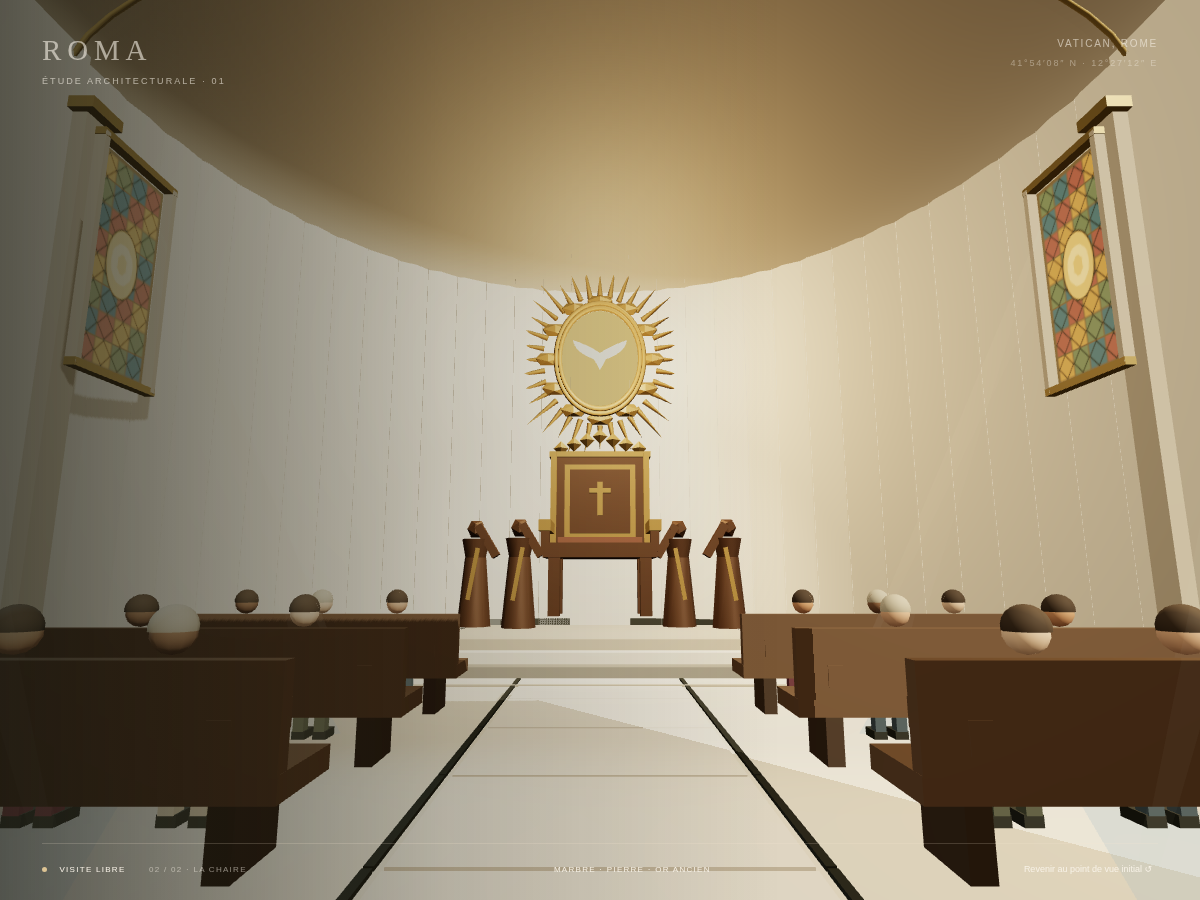
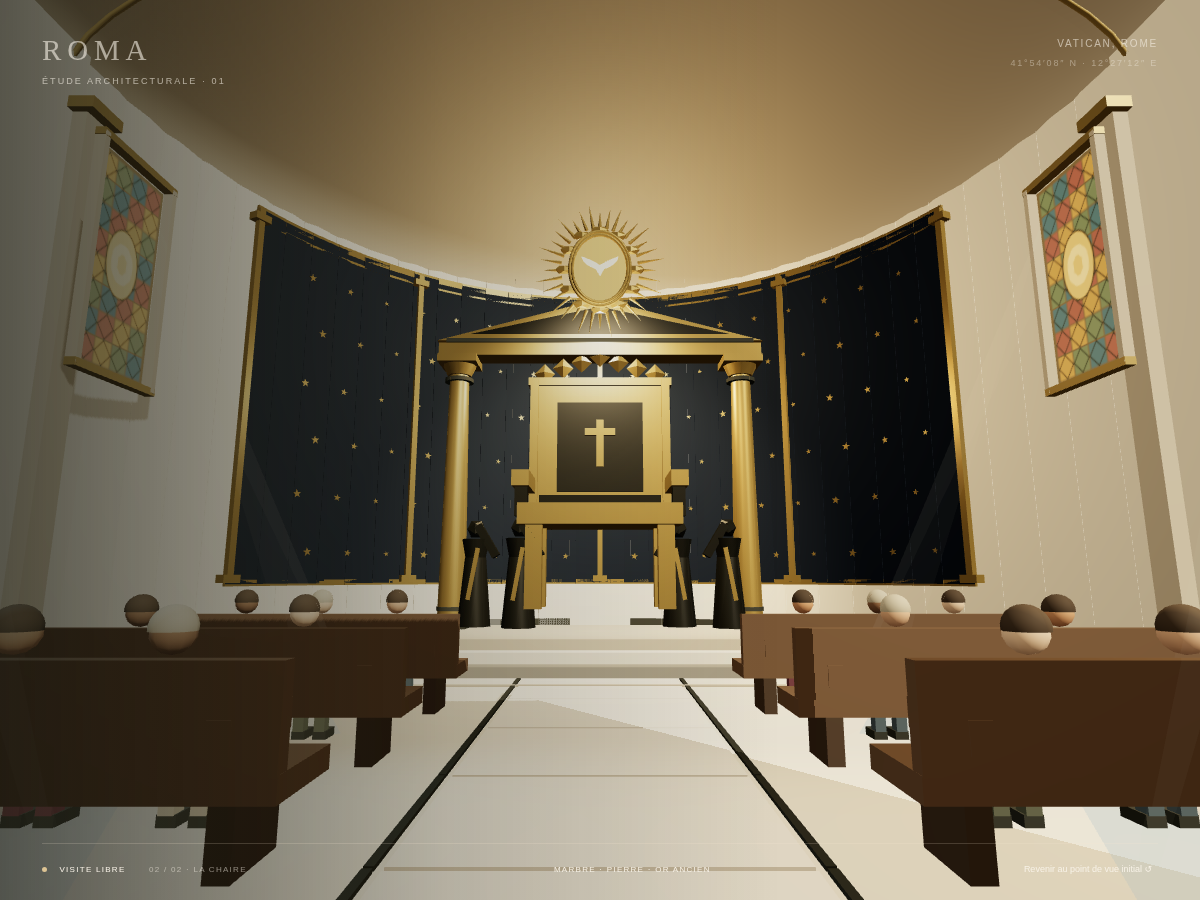
Make Cathedra sanctuary monumental with gold black and midnight stars

Changed region(s): [[0.185, 0.2178, 0.8325, 0.7156]]

diff --git a/src/chapel.js b/src/chapel.js
@@ -3,7 +3,7 @@ import * as THREE from 'three';
 // Salle II : nef avec abside elliptique, Cathedra Petri interprétée géométriquement.
 export function createChapel({scene,box,cylinder,mat,cream,stone,gray,black,gold,white}){
   const chapel=new THREE.Group();chapel.name='chapel';scene.add(chapel);
-  const wood=mat('#65503c'),darkWood=mat('#493c30'),chairBronze=mat('#5b412c',.52,.4),chairGold=mat('#ad8b4b',.42,.5);
+  const wood=mat('#65503c'),darkWood=mat('#493c30'),chairBronze=mat('#25251f',.4,.45),chairGold=mat('#b09452',.35,.65);
   const obstacles=[];
   const floorShape=new THREE.Shape();floorShape.moveTo(-8,-17);floorShape.lineTo(8,-17);floorShape.lineTo(8,-28);
   floorShape.absellipse(0,-28,8,9,0,Math.PI,true);floorShape.lineTo(-8,-17);floorShape.closePath();
@@ -80,12 +80,12 @@ export function createChapel({scene,box,cylinder,mat,cream,stone,gray,black,gold
   // Estrade de la chaire, laissant une allée devant elle.
   box(7.4,.18,4.8,0,.12,-33.4,gray);box(6.7,.22,4.3,0,.3,-33.55,cream);box(6,.2,3.8,0,.51,-33.7,stone);
   obstacles.push({x:0,z:-33.5,hx:4,hz:2.9});
-  const chair=new THREE.Group();chair.name='cathedra-petri';chair.userData.palette='bronze sombre, or ancien, ivoire et ambre';chair.position.set(0,.63,-33.8);chapel.add(chair);
+  const chair=new THREE.Group();chair.name='cathedra-petri';chair.userData.palette='or massif et noir';chair.position.set(0,.63,-33.8);chair.scale.set(1.45,1.45,1.15);chapel.add(chair);
   const cbox=(w,h,d,x,y,z,m)=>{const mesh=new THREE.Mesh(new THREE.BoxGeometry(w,h,d),m);mesh.position.set(x,y,z);mesh.castShadow=true;mesh.receiveShadow=true;chair.add(mesh);return mesh;};
   // Le trône est une interprétation du reliquaire en bronze de Bernin.
-  for(const x of [-.95,.95])for(const z of [-.5,.5])cbox(.24,1.25,.24,x,.94,z,chairBronze);
-  cbox(2.35,.3,1.65,0,1.65,0,chairBronze);cbox(1.75,.12,1.25,0,1.86,.05,mat('#704734'));
-  cbox(2.05,2.12,.28,0,2.77,-.65,chairBronze);cbox(1.6,1.67,.06,0,2.78,-.48,chairGold);cbox(1.35,1.43,.07,0,2.78,-.43,chairBronze);
+  for(const x of [-.95,.95])for(const z of [-.5,.5])cbox(.24,1.25,.24,x,.94,z,chairGold);
+  cbox(2.35,.3,1.65,0,1.65,0,chairGold);cbox(1.75,.12,1.25,0,1.86,.05,chairBronze);
+  cbox(2.05,2.12,.28,0,2.77,-.65,chairGold);cbox(1.6,1.67,.06,0,2.78,-.48,chairGold);cbox(1.35,1.43,.07,0,2.78,-.43,chairBronze);
   for(const x of [-1.14,1.14]){cbox(.25,.23,1.65,x,2.16,0,chairGold);cbox(.18,.65,.18,x,1.95,.55,chairBronze);}
   for(const x of [-1.05,1.05])cbox(.13,2.2,.38,x,2.8,-.65,chairGold);
   for(const y of [1.78,3.86])cbox(2.3,.13,.38,0,y,-.65,chairGold);
@@ -98,8 +98,44 @@ export function createChapel({scene,box,cylinder,mat,cream,stone,gray,black,gold
     const sash=box(.09,1.1,.07,x,1.8,z+.28,chairGold);sash.rotation.z=Math.sign(x)*.17;
     const arm=box(.17,.78,.2,x-Math.sign(x)*.26,2.5,z+.09,chairBronze);arm.rotation.z=-Math.sign(x)*.55;
   }
+  // Fond d'abside bleu nuit, galbé suivant le mur ; le reste reste en pierre claire.
+  const midnight=mat('#101c2c',.94,0);
+  const backdrop=new THREE.Group();backdrop.name='cathedra-night-backdrop';chapel.add(backdrop);
+  for(let i=0;i<28;i++){
+    const a=.45+i/28*(Math.PI-.9),b=.45+(i+1)/28*(Math.PI-.9);
+    const x1=7.79*Math.cos(a),z1=-28-8.79*Math.sin(a),x2=7.79*Math.cos(b),z2=-28-8.79*Math.sin(b);
+    const width=Math.hypot(x2-x1,z2-z1)+.025;
+    for(const [y,h,m] of [[5.4,7.6,midnight],[1.62,.12,chairGold],[9.18,.16,chairGold],[8.95,.055,chairGold]]){
+      const panel=box(width,h,.06,(x1+x2)/2,y,(z1+z2)/2,m);panel.rotation.y=-Math.atan2(z2-z1,x2-x1);panel.castShadow=false;backdrop.attach(panel);
+    }
+  }
+  for(const a of [.45,.95,Math.PI/2,Math.PI-.95,Math.PI-.45]){
+    const x=7.7*Math.cos(a),z=-28-8.7*Math.sin(a);
+    const pilaster=box(.13,7.5,.12,x,5.4,z,chairGold);pilaster.rotation.y=Math.atan2(-Math.cos(a),Math.sin(a));pilaster.castShadow=false;
+    for(const y of [1.7,8.95]){const cap=box(.35,.15,.22,x,y,z,chairGold);cap.rotation.y=pilaster.rotation.y;cap.castShadow=false;}
+  }
+  const starShape=new THREE.Shape();
+  for(let i=0;i<10;i++){const a=i*Math.PI/5+Math.PI/2,r=i%2?.42:1;const x=Math.cos(a)*r,y=Math.sin(a)*r;i?starShape.lineTo(x,y):starShape.moveTo(x,y);}starShape.closePath();
+  const stars=new THREE.InstancedMesh(new THREE.ExtrudeGeometry(starShape,{depth:.08,bevelEnabled:false}),chairGold,108);stars.name='cathedra-gold-stars';
+  const starDummy=new THREE.Object3D();
+  for(let i=0;i<108;i++){
+    const row=Math.floor(i/18),a=.54+(i%18+(row%2)*.35)/18*(Math.PI-1.08);
+    starDummy.position.set(7.72*Math.cos(a),2.25+row*1.19,-28-8.72*Math.sin(a));
+    starDummy.rotation.set(0,Math.atan2(-Math.cos(a),Math.sin(a)),i%2?.15:-.15);starDummy.scale.setScalar(.065+(i%3)*.015);starDummy.updateMatrix();stars.setMatrixAt(i,starDummy.matrix);
+  }
+  stars.instanceMatrix.needsUpdate=true;backdrop.add(stars);
+  // Encadrement de sanctuaire : colonnes dorées sur bases noires et fronton monumental.
+  for(const x of [-3.35,3.35]){
+    box(.82,.22,.86,x,.72,-34.7,black);cylinder(.23,.32,5.65,x,3.62,-34.7,chairGold,12);cylinder(.4,.28,.25,x,6.57,-34.7,chairGold,12);box(.91,.18,.89,x,6.79,-34.7,chairGold);
+    for(const y of [1.03,6.33])cylinder(.34,.34,.09,x,y,-34.7,black,12);
+  }
+  box(7.6,.3,.7,0,7.03,-34.72,chairGold);box(7.25,.095,.73,0,7.24,-34.72,black);
+  const templeFront=new THREE.Shape();templeFront.moveTo(-3.9,0);templeFront.lineTo(3.9,0);templeFront.lineTo(0,1.05);templeFront.closePath();
+  const fronton=new THREE.Mesh(new THREE.ExtrudeGeometry(templeFront,{depth:.26,bevelEnabled:false}),chairGold);fronton.position.set(0,7.31,-34.85);chapel.add(fronton);
+  const insetFront=new THREE.Shape();insetFront.moveTo(-3.12,0);insetFront.lineTo(3.12,0);insetFront.lineTo(0,.69);insetFront.closePath();
+  const darkFront=new THREE.Mesh(new THREE.ShapeGeometry(insetFront),chairBronze);darkFront.position.set(0,7.46,-34.575);chapel.add(darkFront);
   // Gloire dorée et fenêtre ambrée avec colombe, marqueurs visuels de la chaire.
-  const glory=new THREE.Group();glory.name='cathedra-glory';glory.position.set(0,7.45,-36.58);chapel.add(glory);
+  const glory=new THREE.Group();glory.name='cathedra-glory';glory.position.set(0,9,-34.38);glory.scale.setScalar(.62);chapel.add(glory);
   const amber=new THREE.Mesh(new THREE.CircleGeometry(1.02,48),new THREE.MeshBasicMaterial({color:'#d7b365'}));amber.scale.y=1.3;amber.position.z=.12;glory.add(amber);
   for(const radius of [1.07,1.17]){const rim=new THREE.Mesh(new THREE.TorusGeometry(radius,.06,6,48),chairGold);rim.scale.y=1.3;rim.position.z=.17;glory.add(rim);}
   for(let i=0;i<36;i++){
@@ -110,7 +146,7 @@ export function createChapel({scene,box,cylinder,mat,cream,stone,gray,black,gold
   const doveShape=new THREE.Shape();doveShape.moveTo(0,-.35);doveShape.lineTo(-.16,-.05);doveShape.quadraticCurveTo(-.67,.14,-.72,.48);doveShape.quadraticCurveTo(-.26,.32,0,.12);doveShape.quadraticCurveTo(.26,.32,.72,.48);doveShape.quadraticCurveTo(.67,.14,.16,-.05);doveShape.closePath();
   const dove=new THREE.Mesh(new THREE.ShapeGeometry(doveShape),new THREE.MeshBasicMaterial({color:'#fff0cf'}));dove.position.z=.2;glory.add(dove);
   const glow=new THREE.PointLight('#f3d19a',32,13,1.6);glow.position.set(0,7,-34.5);scene.add(glow);
-  const focus=new THREE.SpotLight('#ffe4b9',100,24,.52,.8,1.5);focus.position.set(0,10,-28);focus.target.position.set(0,2.5,-33.8);scene.add(focus,focus.target);
+  const focus=new THREE.SpotLight('#ffe4b9',145,24,.56,.8,1.5);focus.position.set(0,10,-28);focus.target.position.set(0,4.3,-33.8);scene.add(focus,focus.target);
   function visitor(x,z,index){
     const person=new THREE.Group();person.name='seated-visitor';person.position.set(x,0,z);person.rotation.y=Math.PI;chapel.add(person);
     const clothes=[mat('#4b5961'),mat('#653d46'),mat('#aaa28d'),mat('#53584b')][index%4];

diff --git a/README.md b/README.md
@@ -88,10 +88,14 @@ Les deux niches de la porte présentent des statues distinctes : à gauche, robe
 
 ## Salle de la chaire
 
-Traverser la porte entre les statues bordeaux et noires pour entrer dans une nef à abside elliptique, sous une voûte arrondie. L'allée centrale mène à une interprétation géométrique de la Cathedra Petri : reliquaire en bronze sombre et or ancien, quatre figures de soutien, gloire dorée et fenêtre ambrée avec colombe. La palette suit les matériaux du monument sans prétendre reproduire ses sculptures ou proportions exactes.
+Traverser la porte entre les statues bordeaux et noires pour entrer dans une nef à abside elliptique, sous une voûte arrondie. L'allée centrale mène à une interprétation géométrique de la Cathedra Petri : trône monumental en or ancien et noir, quatre figures de soutien, gloire dorée et fenêtre ambrée avec colombe. La palette suit les matériaux du monument sans prétendre reproduire ses sculptures ou proportions exactes.
 
 Huit bancs en bois accueillent vingt visiteurs assis en vêtements sobres. Six vitraux colorés, deux éclairages latéraux, des taches colorées au sol et de fins rayons transparents créent les effets de lumière. Ces effets sont stylisés ; aucune simulation coûteuse de vitrail ou de volume n'est utilisée. Le plafond de la seconde salle a une voûte en berceau et une demi-coupole sur l'abside.
 
 Les murs courbes, les bancs et l'estrade disposent de collisions ; l'allée centrale et les passages latéraux restent libres. L'indicateur de salle change pendant la visite. Les commandes et le point de départ sont conservés. Capture : `artifacts/salle-chaire.png`.
 
 Le test `node tests/chapel.cjs` utilise les mêmes prérequis que `tests/browser.cjs`. Il contrôle les vingt visiteurs, les six vitraux, les collisions, le passage jusqu'à l'estrade et effectue un vrai trajet au clavier aller-retour à travers la porte.
+
+## Sanctuaire monumental
+
+La chaire est agrandie de 45 % et reçoit une structure dorée, des panneaux noirs, deux colonnes en or ancien et un fronton monumental. Le fond courbe de l'abside est habillé de bleu nuit très sombre, de 108 petites étoiles dorées instanciées et de contours architecturaux en or ancien. Le reste de la salle conserve sa pierre claire, ses vitraux, ses bancs et ses visiteurs. Les nouveaux éléments du sanctuaire restent à l'intérieur de la zone de l'estrade déjà protégée par collision.
